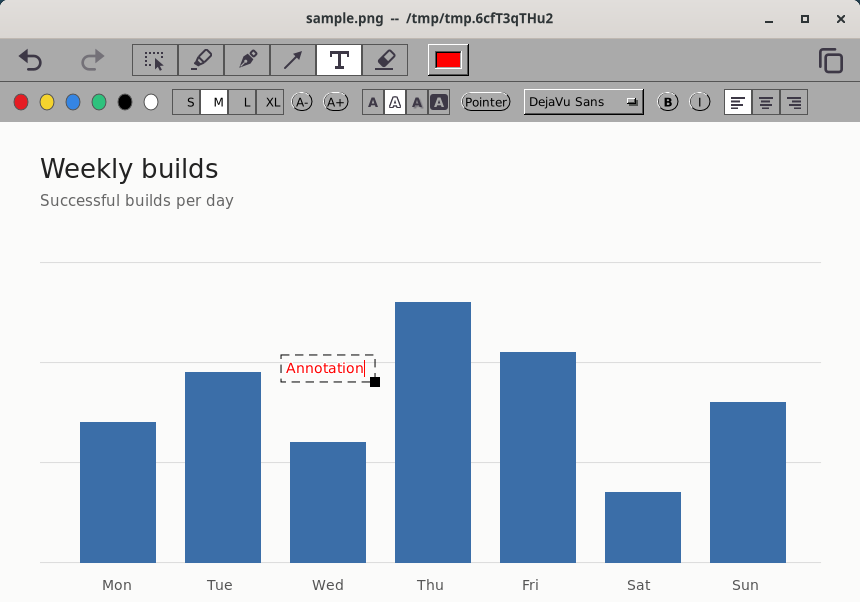
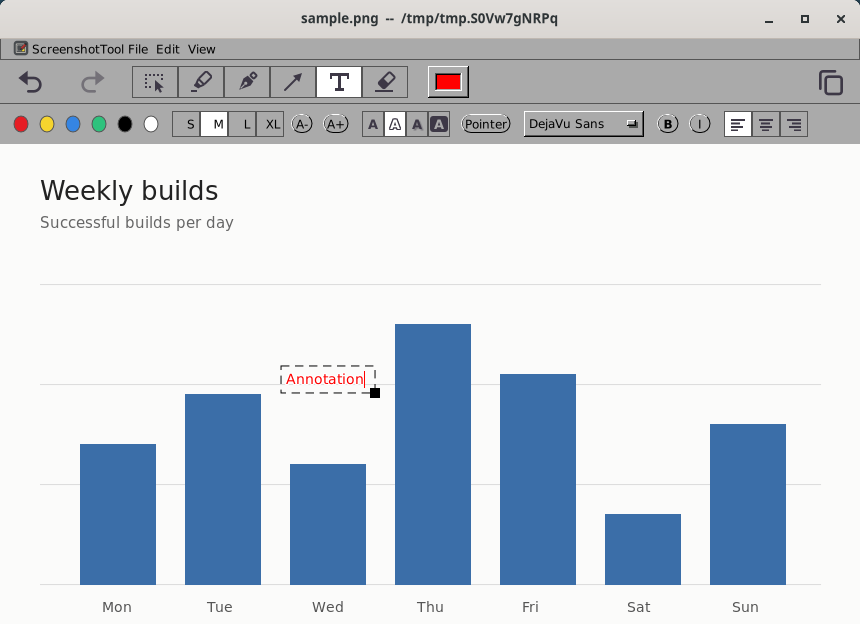
README: default-theme shot from v0.1.1-rc2; Linux users of v0.1.0 reinstall once
Claude-Session: https://claude.ai/code/session_016VE7ZAbSZAK1wPSAeQAJRr

diff --git a/README.md b/README.md
@@ -68,7 +68,8 @@ curl -fsSL https://raw.githubusercontent.com/danjboyd/ScreenshotTool/main/script
 That puts it in `~/Applications/ScreenshotTool.AppImage`. To remove it, run the same command
 with `bash -s -- --uninstall` in place of `bash`; `--channel prerelease` installs release
 candidates instead. The script needs `curl`, and `jq` or
-`python3`.
+`python3`. If you installed v0.1.0 or a v0.1.1 release candidate, run it again once: those
+versions can't download updates themselves.
 
 You can also download the AppImage, `chmod +x` it and run it directly. AppImages need FUSE's
 `fusermount3` (the `fuse3` package, standard on desktop installs; `libfuse2` isn't needed), or
@@ -129,12 +130,13 @@ window, adding a text annotation:
 ![Adding text under the Adwaita theme](docs/images/adwaita-text.png)
 
 Under the [Adwaita theme](https://github.com/danjboyd/plugins-themes-Adwaita), as on a GNOME
-desktop: the toolbar sits in the header bar, and the menus are in its ☰ menu
-(`-GnomeThemeMenuStyle primary`), with no menu bar row.
+desktop: the toolbar sits in the header bar, and the menus are in its ☰ menu, with no menu
+bar row.
 
 ![Adding text under GNUstep's default theme](docs/images/gnustep-text.png)
 
-Under GNUstep's default theme, with the window manager's title bar.
+Under GNUstep's default theme, as on other desktops: the window manager's title bar, with the
+menus in the window.
 
 ![The highlighter's settings popover under the Adwaita theme](docs/images/adwaita-popover.png)
 
